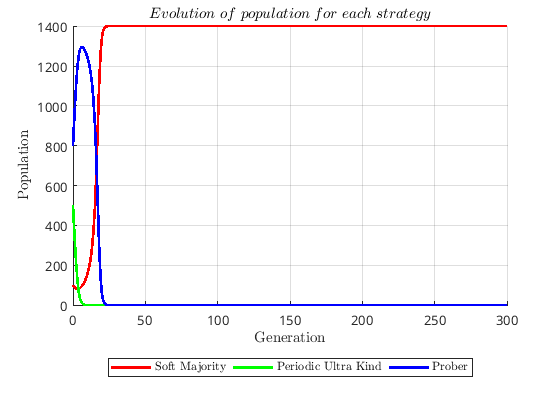
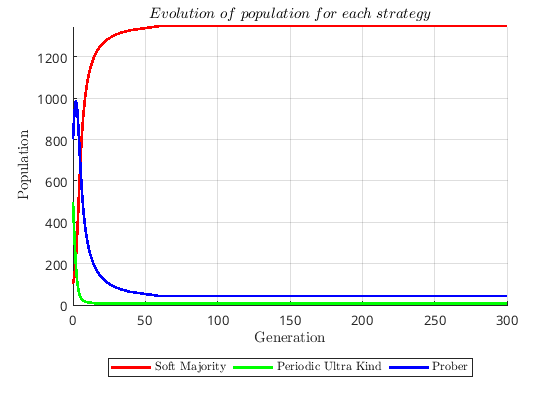
- True figure05.m - Add correct disordered and increasing oscillation plots

Changed region(s): [[0.0607, 0.0619, 0.9107, 0.7429], [0.0607, 0.031, 0.1214, 0.0929]]

diff --git a/Examples/script.m b/Examples/script.m
@@ -47,12 +47,12 @@ K = 5;
 % figure10_1, figure10_2: Payoff matrix sensitivity
 % figure11_1, figure11_2: Rounding method sensitivity
 % figure12_1, figure12_2: Rounding method sensitivity 2
-figure01;
+figure06;
 
 %%%%%% Custom meeting %%%%%%
 % Set custom -> true, to set your own parameters
 % This overrides the previous meeting's parameters
-custom = true;
+custom = false;
 if custom == true
     % Custom
     strategiesArray = [2, 3, 5]; % Strategy numbers from the list above

diff --git a/Examples/figure05.m b/Examples/figure05.m
@@ -1,6 +1,6 @@
 % Increasing oscillations X
 strategiesArray = [9, 10, 12]; % soft_majo, per_cd, per_ddc
-populationsArray = [200, 300, 400];
+populationsArray = [200, 400, 300];
 matrix = [3, 0; 5,1];
 rounds = 1000;
 generations = 450;
